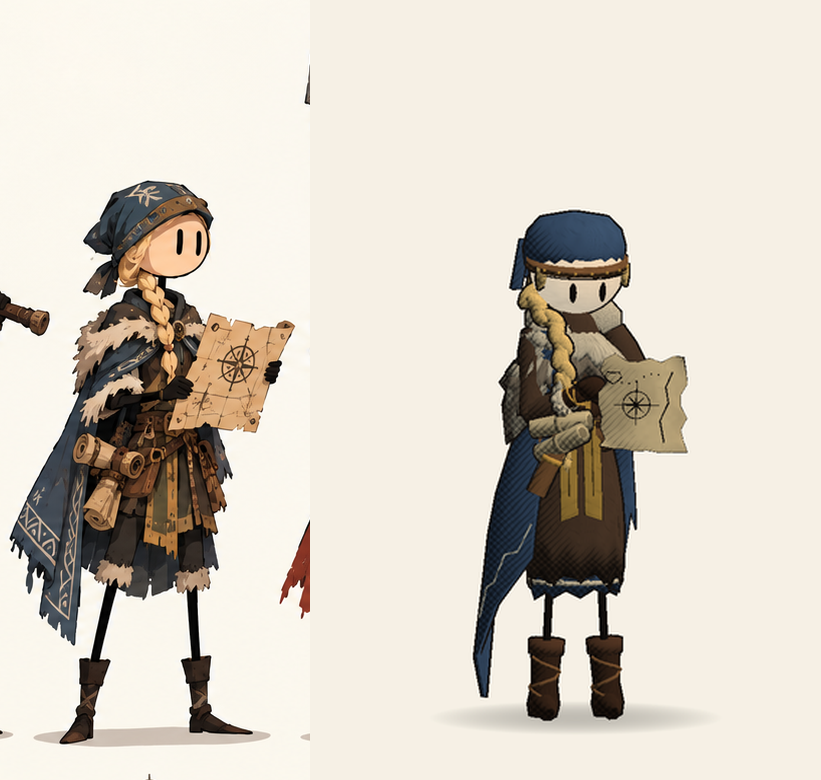
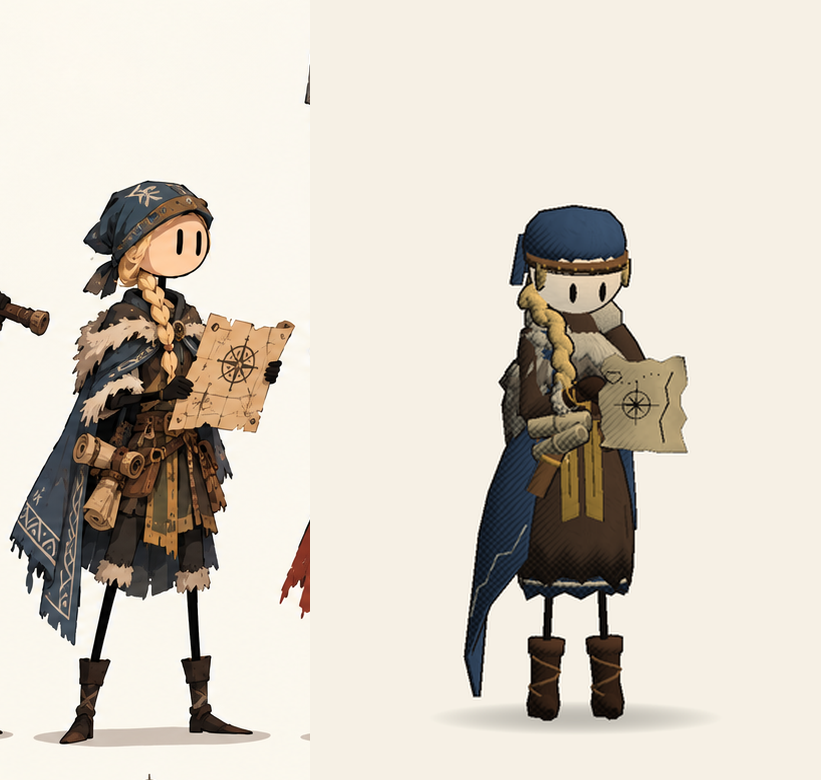
Navigator pass 5: wider skirt, bandana sits higher; plan records passes 4-5
The Navigator's skirt flares wider at the hem and the bandana's brow band
sits higher so the face is open, as in the concept art. CHARACTERS.md
records passes 4 and 5 and what pass 6 should tackle.

Claude-Session: https://claude.ai/code/session_01SCdejJ1UF8RUxAkkFhZXGU

Changed region(s): [[0.5481, 0.5231, 0.7917, 0.8923], [0.609, 0.2462, 0.7917, 0.3692]]

diff --git a/OdinsCoin/Assets/Scripts/Characters/Garments.cs b/OdinsCoin/Assets/Scripts/Characters/Garments.cs
@@ -665,7 +665,7 @@ namespace OdinsCoin
         {
             var f = d.fit;
             float r = f.headR, cy = HeroModel.HeadCentre(f), s = d.S;
-            float brim = cy + 0.1f * r;
+            float brim = cy + 0.2f * r;
             d.Add(Joints.Head, d.pal.accent, MeshData.Lathe(new[] {
                 new Vector2(r * 1.07f, brim - 0.05f * r), new Vector2(r * 1.09f, brim + 0.3f * r), new Vector2(r * 1.0f, brim + 0.65f * r),
                 new Vector2(r * 0.75f, brim + 0.92f * r), new Vector2(0.01f, brim + 1.05f * r) }, 18)

diff --git a/OdinsCoin/Assets/Scripts/Characters/Outfits.cs b/OdinsCoin/Assets/Scripts/Characters/Outfits.cs
@@ -91,7 +91,7 @@ namespace OdinsCoin
                 {
                     Garments.ShinBoots(d, 0.24f);
                     Garments.Gloves(d);
-                    Garments.LongSkirt(d, 0.2f, 1.35f);
+                    Garments.LongSkirt(d, 0.2f, 1.6f);
                     Garments.Underskirt(d, 0.08f);
                     Garments.Tunic(d, false);
                     Garments.LongSleeves(d);

diff --git a/OdinsCoin/CHARACTERS.md b/OdinsCoin/CHARACTERS.md
@@ -46,11 +46,19 @@ Alt bygges i kode (ingen modellfiler trengs). `tools/preview/render.sh` tegner e
     - **Spydvakt:** splitt foran i lærvesten, mørke bukser og knehøye støvler.
     - **Seer:** blekere filler i fjærkappa.
     - **Speider:** lua sitter på skrå med mørkt stoff synlig, flettet svinger over høyre skulder, og løse lokker henger på samme side.
-  - Til runde 4:
-    - Ansiktene er litt mindre enn i bildet. Hodet kan bli større, eller hodeplaggene kan sitte høyere.
-    - Hendene som holder våpen bør synes bedre.
-    - Pelsen på Navigatørens skulder er for lite synlig.
-    - Buen til Speideren skal henge bak, ikke holdes foran.
+  - Runde 4 (ferdig): større hoder og flatt lys på ansiktene, og pelsen på Navigatørens skulder synes over kappa.
+  - Runde 5 (ferdig):
+    - **Speider:** skjørt og panel til kneet, og buen skrått bak kroppen.
+    - **Spydvakt:** vimpelen henger ned fra spydet.
+    - **Raider:** flettene svinger som i bildet (`SwungBraids`).
+    - **Jarl:** fyldigere pelskrage og skjoldet vendt mot oss.
+    - **Seer:** fillete fjær stikker ut fra skuldrene.
+    - **Navigatør:** videre skjørt og høyere pannebånd.
+  - Til runde 6:
+    - Pelsen er fortsatt for lys og jevn mot bildets gule og brune toner.
+    - Runene på Jarlens gullkant er for små til å synes.
+    - Speiderens bue bør henge lavere enn skjørtet.
+    - Stoffet i Navigatørens kappe trenger mønsteret langs hele kanten.
 - [x] **9. Bevegelse i plaggene:** (se [docs/motion.png](docs/motion.png)) kapper, skjørt, fletter, pels og vimpler svinger og henger etter når figuren går, snur og hugger (enkel fysikk med fjærer).
 - [ ] **10. Tegneserie-look på alt:** tusj-kanter på skipet, øyene, trærne, husene og havet, skravur med blyant eller tusj i skyggene, og papirkorn over hele bildet.
   - [x] Skravur i skyggene: shaderen `OdinsCoin/InkToon` (i `Resources/Shaders`) gir myk tegnet belysning med kalde skygger, enkle blyantstreker på skyggesiden og kryss-skravur i de mørkeste delene. Ansiktene får ingen skravur, så de holder seg rene. Den brukes på alt som ikke er blankt (havet beholder Lit). `InkStyle.cs` har samme matte, og forhåndsvisningen bruker den.
